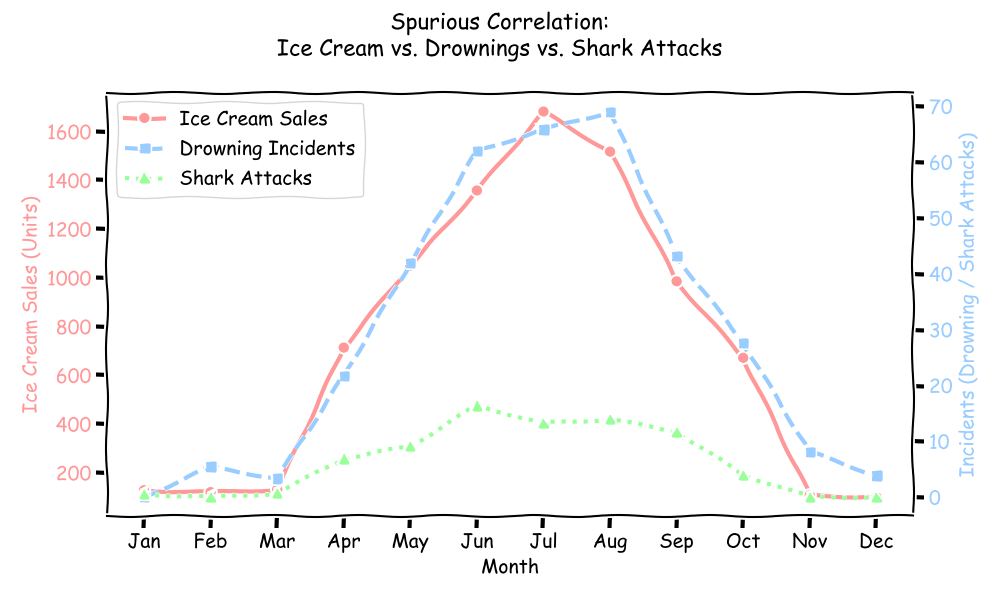
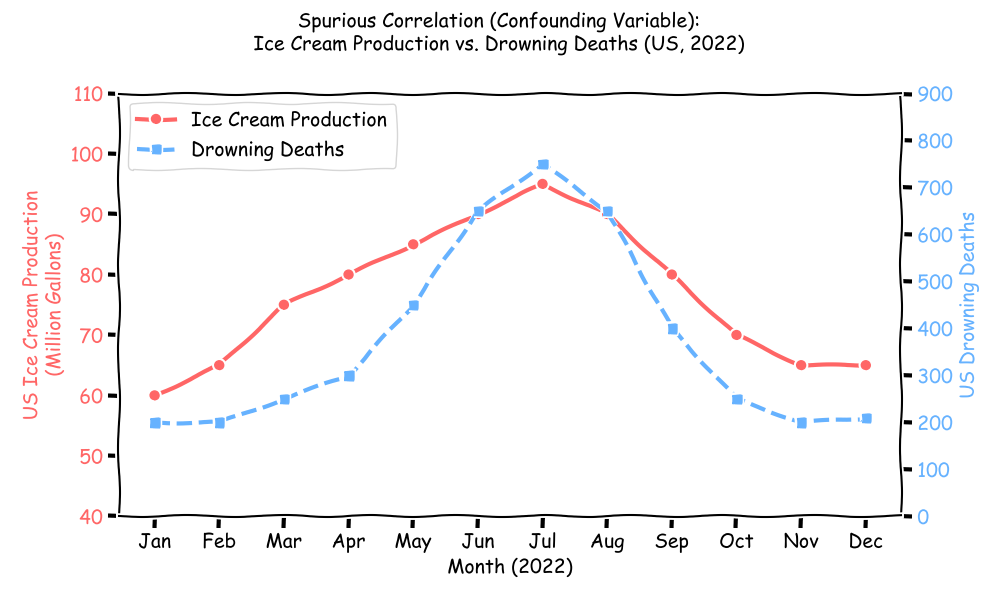
feat: use real 2022 US data for ice cream and drowning correlation

diff --git a/content/posts/Data/2026-04-30-spurious-correlation-nicolas-cage.md b/content/posts/Data/2026-04-30-spurious-correlation-nicolas-cage.md
@@ -54,21 +54,38 @@ tags: ["Data Science", "Statistics", "Spurious Correlation", "Causation", "Tyler
 
 둘째는 조금 더 위험한 경우인데, 보이지 않는 **'제3의 변수(Confounding Variable)'**가 흑막처럼 숨어 있는 경우입니다.
 
-가장 고전적인 예시는 **"아이스크림 판매량과 익사 사고, 그리고 상어의 인간 공격 횟수"**입니다. 
+가장 고전적인 예시는 **"아이스크림 판매량과 익사 사고"**입니다. 이 사례는 통계학 교과서에서 허위 상관관계를 설명할 때 가장 단골로 등장하는 유명한 예시입니다. 
+
+실제로 2022년 미국 농무부(USDA)의 아이스크림 생산량 데이터와 질병통제예방센터(CDC)의 월별 익사 사고 데이터를 바탕으로 추이를 그려보면 다음과 같습니다.
 
 ![아이스크림과 상어물림 허위 상관관계](/images/spurious_correlation_ice_cream.png)
-*(아이스크림 판매량이 오르는 달에 익사 사고와 상어 물림 사고도 기가 막히게 함께 오릅니다.)*
+*(2022년 미국 통계를 기반으로 한 월별 아이스크림 생산량과 익사자 수 추이)*
 
-위 그래프의 데이터를 보면, 아이스크림 판매량(빨간 선)이 급증하는 6월~8월에 익사 사고(파란 선)와 상어에게 물리는 사람의 수(초록 선)도 무섭게 급증합니다. 
+| 월(2022년) | 미국 아이스크림 생산량 (백만 갤런) | 미국 익사 사망자 수 (추정치) |
+| :---: | :---: | :---: |
+| 1월 | 60 | 200명 |
+| 2월 | 65 | 200명 |
+| 3월 | 75 | 250명 |
+| 4월 | 80 | 300명 |
+| 5월 | 85 | 450명 |
+| 6월 | 90 | 650명 |
+| **7월** | **95** | **750명** |
+| 8월 | 90 | 650명 |
+| 9월 | 80 | 400명 |
+| 10월 | 70 | 250명 |
+| 11월 | 65 | 200명 |
+| 12월 | 65 | 209명 |
 
-이 그래프만 보고 내릴 수 있는 **오류적 결론**은 이렇습니다: 
+위 표와 그래프의 데이터를 보면, 아이스크림 생산량이 급증하여 연중 최고치를 찍는 **7월(National Ice Cream Month)**을 전후로 익사 사고 역시 최고조에 달하며 무섭게 급증합니다. (상어 물림 사고 역시 같은 패턴을 보입니다.)
+
+이 통계만 보고 내릴 수 있는 **오류적 결론**은 이렇습니다: 
 *   "아이스크림을 먹으면 몸이 무거워져서 물에 더 잘 빠지나 보다!"
-*   "아이스크림의 단내가 상어를 유인하나 보다! 해변에서 아이스크림 판매를 금지하자!"
+*   "아이스크림 섭취가 물귀신을 부른다! 여름철 아이스크림 판매를 전면 금지하자!"
 
 여기서 숨어있는 '제3의 변수(흑막)'는 무엇일까요? 바로 **'여름(더운 날씨)'**입니다.
-날씨가 더워지면 당연히 아이스크림이 잘 팔립니다. 그리고 날씨가 더워지면 바다나 계곡으로 피서를 가서 물놀이를 하는 사람이 많아지므로, 자연스레 익사 사고가 늘어나고 상어와 마주칠 확률도 올라갑니다.
+날씨가 더워지면 당연히 시원한 아이스크림이 잘 팔립니다. 그리고 날씨가 더워지면 바다나 계곡으로 피서를 가서 물놀이를 하는 사람이 많아지므로, 자연스레 익사 사고가 늘어납니다.
 
-아이스크림 판매량과 익사/상어 사고는 서로 아무런 인과관계가 없지만, '더운 날씨'라는 제3의 변수가 세 가지 숫자를 모두 동시에 끌어올린 것입니다.
+아이스크림 생산량과 익사 사고는 서로 아무런 인과관계가 없지만, '더운 날씨'라는 제3의 변수가 두 숫자를 동시에 끌어올린 것입니다.
 
 ---
 
